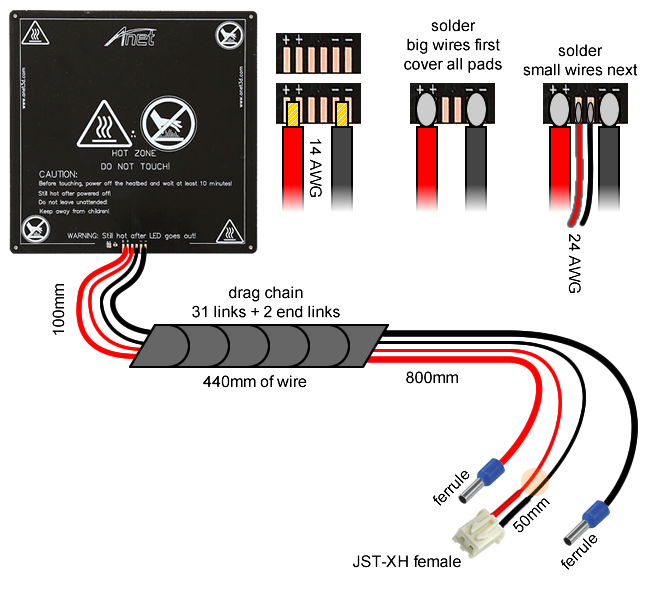
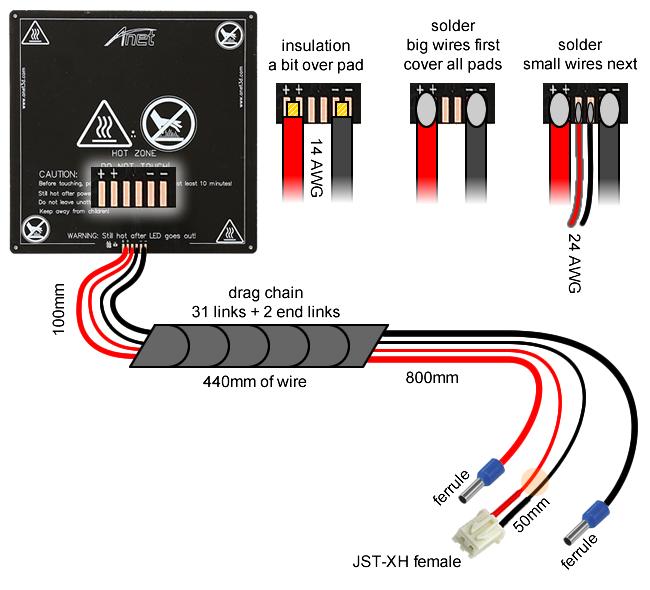
update electrical prep page

diff --git a/ordered_lessons/lesson11.md b/ordered_lessons/lesson11.md
@@ -6,17 +6,23 @@ I will write this page assuming you already have the skills to solder, to crimp,
 
 ## Strategy
 
-For the high current and high voltage connections on the power supply, we will be using screw terminals. They mate with spade connectors (aka fork connectors). They also technically accept bare wires but it's a lot more dangerous without using connectors.
+For the high current and high voltage connections on the power supply, we will be using barrier screw terminals. They mate with fork connectors (aka spade connectors). They also technically accept bare wires but it's a lot more dangerous without using connectors.
 
-For the high current connections on the control circuit board, there are some terminal blocks. Terminal blocks like these work best with proper wire ferrules, but also accept bare wires. We will avoid using bare wires.
+![](../images/lesson11/psuandforkconnectors.png)
+
+For the high current connections on the control circuit board, there are some screw terminal blocks. Terminal blocks like these work best with proper wire ferrules, but also accept bare wires. We will avoid using bare wires.
+
+![](../images/lesson11/screwterminalblockandferrules.png)
 
 For the low current connections, the control circuit board uses many JST-XH connectors. These have a 2.54mm pin pitch and are polarized.
 
-Now here's some bad news. Spade connectors need a crimper, or even two crimpers. Wire ferrules need a special type of crimper. JST-XH also has its own type of crimper. One crimper is about $20, which doesn't sound bad for a tool that will keep you safe and your projects reliable for many years, but spending $60 on just crimpers for a 3D printer might be a bit daunting.
+Now here's some bad news. Spade/Fork connectors need a crimper, or even two crimpers. Wire ferrules need a special type of crimper. JST-XH also has its own type of crimper. One crimper is about $20, which doesn't sound bad for a tool that will keep you safe and your projects reliable for many years, but spending $60 on just crimpers for a 3D printer might be a bit daunting.
 
-I know the promise is that the 3D printer is cheap to build. But I will be writing my instructions assuming you have access to the crimpers for the spade connectors and the wire ferrules. You are free to half-ass some of the wiring, but don't expect me to be happy about it if you ask me to inspect it in person.
+I know the promise is that the 3D printer is cheap to build. But I will be writing my instructions assuming you have access to the crimpers for the fork connectors and the wire ferrules. You are free to half-ass some of the wiring, but don't expect me to be happy about it if you ask me to inspect it in person.
 
 The wires we'll be using are either 14 AWG or 24 AWG. To avoid using a crimper for the JST-XH connectors, we will buy a large pack of JST-XH pigtails.
+
+![](../images/lesson11/jstxhpigtails.png)
 
 ## Shopping
 
@@ -35,7 +41,7 @@ The wires we'll be using are either 14 AWG or 24 AWG. To avoid using a crimper f
  * crimper for wire ferrules
  * variety pack of heat-shrink tubing in different sizes, all black, marine grade preferred but not required
  * variety pack of wire ferrules
- * pack of insulated spade terminals that fit 14 AWG wires and fits #8 screws
+ * pack of insulated fork connectors that fit 14 AWG wires and fits #8 screws
  * JST-XH pigtails, both male and female
  * cables for stepper motors, with connectors that work with the SKR Mini E3
 
@@ -43,11 +49,13 @@ Below is a massive image that shows all the things in the above list:
 
 [![](../images/lesson11/shopping.png)](../images/lesson11/shopping.png)
 
-## WARNING: JST-XH Polarity
+There might be more things, we'll cover them later.
 
-If you have a keen eye, you'll notice that the JST-XH pigtails from Amazon may have different arrangements of red and black, and may even be backwards from common cooling fans and such. In fact, the one listing I wanted you to buy actually have a 17% one-star rating with people complaining about how it is backwards. We will keep this in mind but we will also solve this later.
+## Polarity
 
-Keep in mind that the limit switches and thermistors do not have polarity. Switches are dumb devices without polarity, current can flow through them in any direction. Thermistors are just resistors, so they also allow current to flow through both ways, so polarity for thermistors also does not matter.
+Keep in mind that the limit switches, thermistors, and heating elements, **do not have polarity**. Switches are just dumb copper pieces touching each other, current can flow through them in any direction. Thermistors and heating elements are **just resistors**, so they also allow current to flow through both ways, so polarity for thermistors and heating elements also does not matter.
+
+For the cooling fans, especially the type we are using called BLDC (brushless DC), the polarity definitely matters, and reversing the polarity with a 12V power input will definitely cause damage to them. So make sure red goes to red (red = positive, positive goes to positive), and black goes to black.
 
 ## Limit Switches
 
@@ -75,11 +83,23 @@ The cooling fans come with wires and maybe a connector, but for the sake of maki
 
 ![](../images/lesson11/blowerfanpigtail.png)
 
-The choices for the connectors are made to make life easier later. The wire can be pretty thin because the fans are not power hungry. We will be making extension cables for these fans later.
+The choices for the connectors are made to make life easier later. The wire can be pretty thin (use 24 AWG) because the fans are not power hungry. We will be making extension cables for these fans later.
+
+## Nozzle Heater Cartridge
+
+The nozzle heater cartridge should have a 1 meter long wire that's glass insulated already. Extend this another 1 meter with pieces of 14 AWG wire, using soldering and heat-shrink tubing. On the ends, terminate with crimped on wire ferrules.
+
+![](../images/lesson11/nozzleheaterwireprep.png)
+
+## Thermistor Cartridge
+
+The thermistor cartridge for the heat-block is sold with a 1 meter dedicated wire. This wire will have a Molex Microfit connector, which we don't want to buy a crimper for so make sure you buy the combo with this wire. Extend this wire with 24 AWG wire, then splice it with a JST-XH female connector. Use soldering and heat-shrink tubing to do this.
+
+![](../images/lesson11/thermistorcable.png)
 
 ## Heated Bed
 
-This part you should do **after** the printer has been mostly assembled! You need to **prepare the drag chain, but not install it,** before wiring the heated bed!
+This part you should do **after** the printer has been mostly assembled! This step you should be doing **after** you prepare the drag chain, but **before** you install the drag chain to the frame.
 
 ![](../images/lesson11/heatedbedwireprep.png)
 
@@ -95,4 +115,16 @@ Be very careful not to break the solder joints while installing the heated bed t
 
 ## Extension Cables
 
-Make the following extension cables following the diagram.
+The big major cable is the 12V wire that runs from the power supply to the control circuit board. This uses 14 AWG wire, and is terminated with spade connectors on one end, and wire ferrules on the other end.
+
+Extending wires from the limit switches to the control circuit board is easy, just a long pieces of 24 AWG wire with JST-XH female connectors on each end. We need three of them, each one is a different length.
+
+Extending wires from the extruder cooling fan and the nozzle blower fan requires two differently made extension wires. Use 24 AWG wire. Both will have JST-XH female on the end where it connects to the control circuit. The one meant for the extruder cooling fan will have a JST-XH **female** on the last end, but the one meant for the nozzle blower fan will have a JST-XH **male** on the last end.
+
+## AC Power Input
+
+The AC power input module should have already come with wires that are terminated properly with crimped on spade connectors.
+
+![](../images/lesson8/powerinputsocket.png)
+
+![](../images/lesson11/acinputwireslabeled.png)
